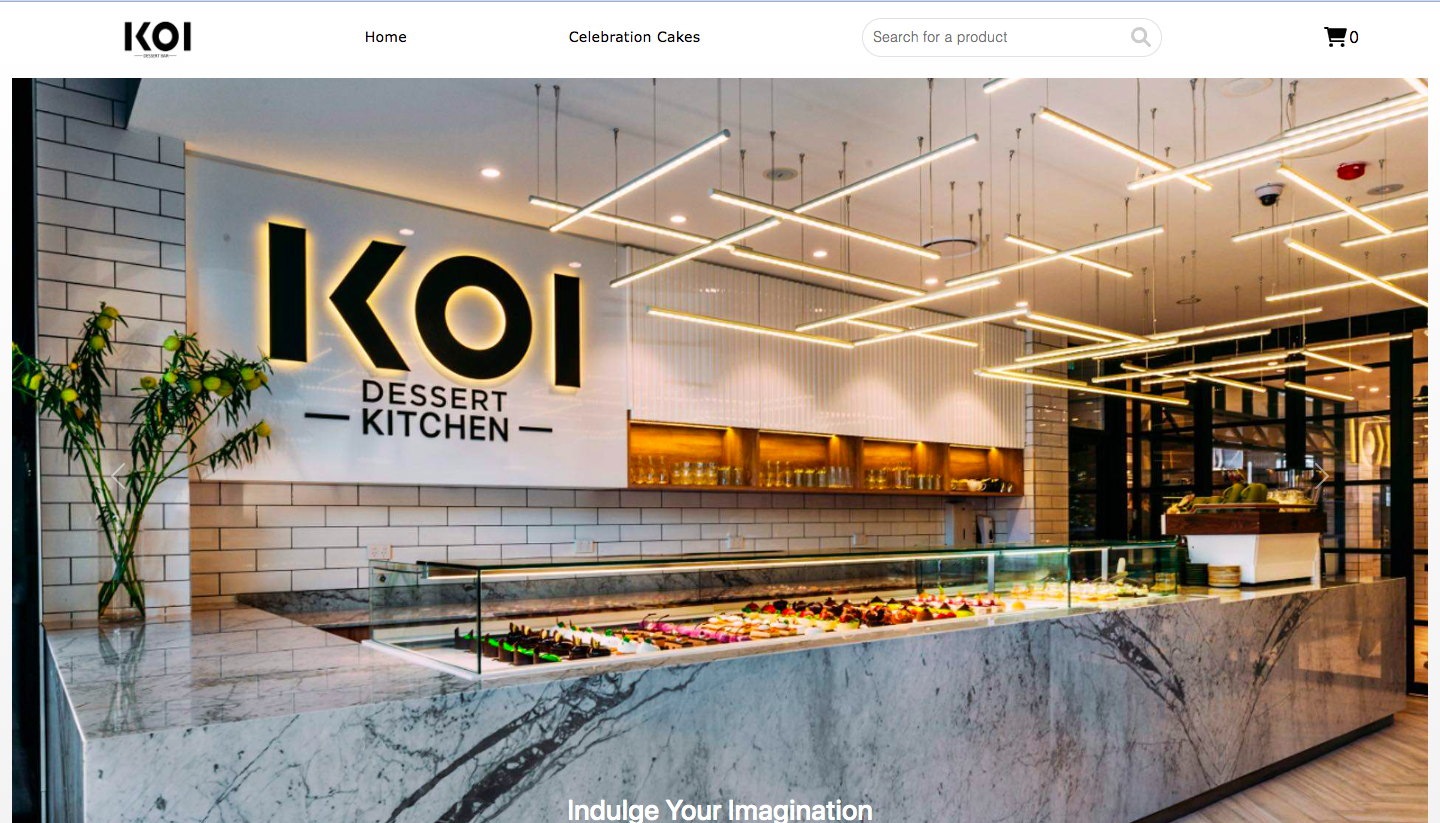
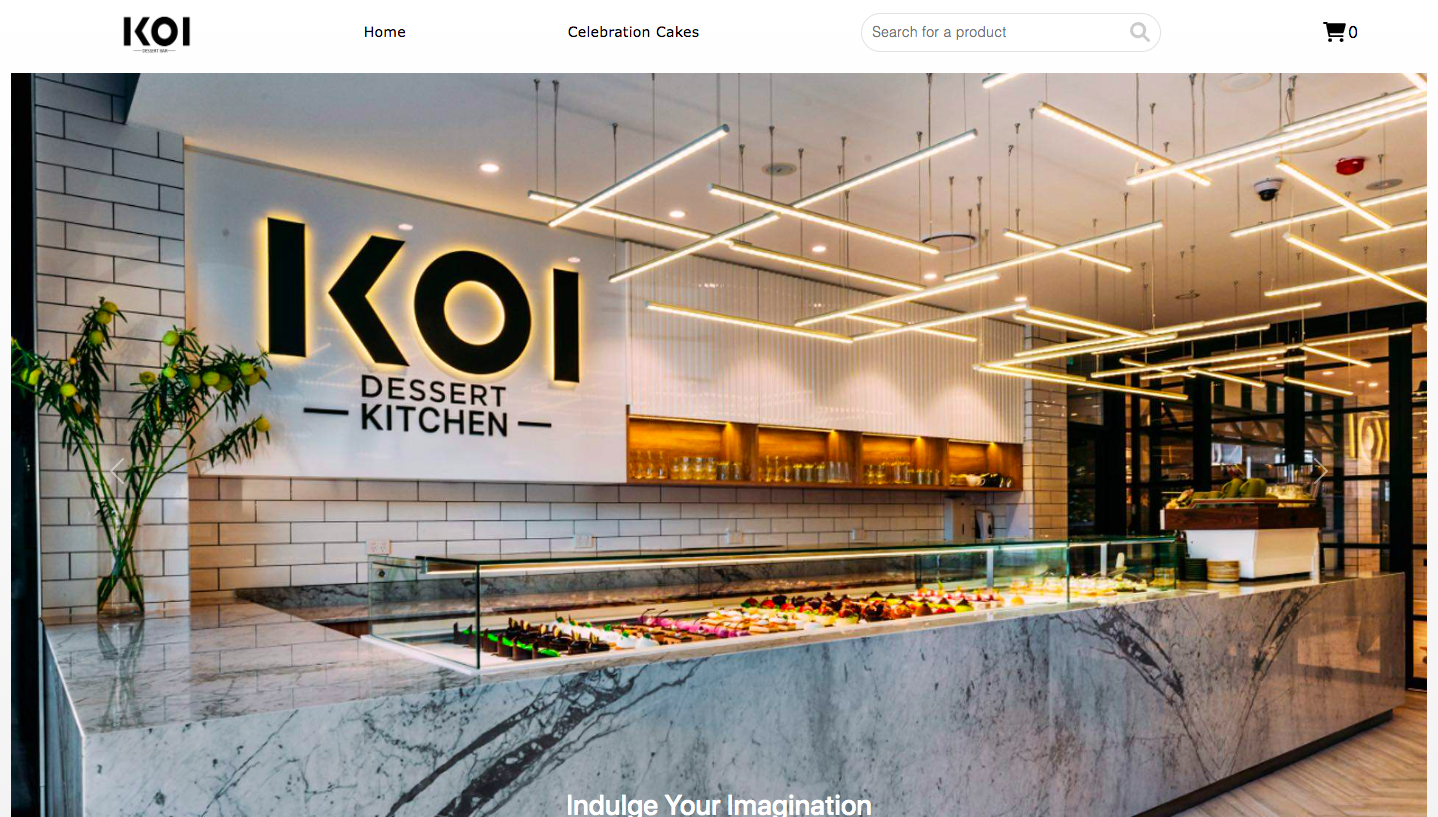
Update portfolio

diff --git a/index.html b/index.html
@@ -29,9 +29,7 @@
         <header class="header_area">
             <div class="main-menu">
                 <nav class="navbar navbar-expand-lg navbar-light">
-                    <a class="navbar-brand" href="#"
-                        ><img src="./img/logo.png" alt="logo"
-                    /></a>
+                    <a class="navbar-brand" href="#">AD</a>
                     <button
                         class="navbar-toggler"
                         type="button"
@@ -83,41 +81,38 @@
                 <div class="container">
                     <div class="row">
                         <div
-                            class="col-lg-6 col-md-12 site-title text-uppercase"
+                            class="col-lg-6 col-md-6 col-sm-12 site-title text-uppercase"
                         >
                             <h3>Hi</h3>
                             <h1>I'm Amelia</h1>
                             <h4>Junior Software Developer</h4>
-                            <div>
-                                <div class="d-flex flex-row flex-wrap">
-                                    <a
-                                        type="button"
-                                        class="btn btn-primary"
-                                        href="#about"
-                                    >
-                                        about me
-                                    </a>
-                                </div>
-                            </div>
+                            <a
+                                type="button"
+                                class="btn btn-primary"
+                                href="#about"
+                            >
+                                about me
+                            </a>
                         </div>
-                        <div class="col-lg-6 col-md-12 banner-image">
-                            <img
-                                src="./img/female_dev.svg"
-                                alt="female-dev"
-                                class="img-fluid"
-                            />
+                        <div class="col">
+                            <div class="about-image">
+                                <img
+                                    src="./img/profile.png"
+                                    alt="female-dev"
+                                    class="img-fluid"
+                                />
+                            </div>
                         </div>
                     </div>
                 </div>
             </section>
             <!--  ======================= End Banner Area =======================  -->
-            <hr />
             <!--  ========================= About Area ==========================  -->
 
             <section class="about-section" id="about">
                 <div class="container">
                     <div class="row">
-                        <div class="col">
+                        <div class="col-lg-6 col-md-6 col-sm-12">
                             <h2 class="text-uppercase">Introduction</h2>
                             <div>
                                 <p>
@@ -148,6 +143,7 @@
                                 Download Resume
                             </button> -->
                         </div>
+
                         <div class="col">
                             <div class="about-image">
                                 <img
@@ -194,22 +190,6 @@
                         <div class="col">
                             <div class="skill">
                                 <i
-                                    class="fa-brands fa-git-alt fa-3x skills__icon"
-                                ></i>
-                                <p>Git</p>
-                            </div>
-                        </div>
-                        <div class="col">
-                            <div class="skill">
-                                <i
-                                    class="fa-solid fa-server fa-3x skills__icon"
-                                ></i>
-                                <p>Firebase/FireStore</p>
-                            </div>
-                        </div>
-                        <div class="col">
-                            <div class="skill">
-                                <i
                                     class="fa-brands fa-react fa-3x skills__icon"
                                 ></i>
                                 <p>React</p>
@@ -248,11 +228,13 @@
             <!--  ======================= Project Area =============================  -->
 
             <section class="project-section" id="projects">
-                <div class="container">
+                <div class="container px-2">
                     <h2 class="text-uppercase">Projects</h2>
-                    <div class="row grid">
+                    <div class="row row-cols-3 gx-3 gy-3">
                         <div class="col-lg-4 col-md-6 col-sm-12">
-                            <div class="our-project">
+                            <div
+                                class="p-3 border border-info-subtle rounded our-project"
+                            >
                                 <div class="img">
                                     <a
                                         class="test-popup-link"
@@ -281,20 +263,19 @@
                                         </a>
                                     </div>
                                     <p class="text-secondary">
-                                        An e-commerce website built using React,
-                                        Firestore (Database) and Bootstrap
-                                        components. Featuring a design based on
-                                        the KOI Desert Bar webstore.
-                                        Implementation of cart system, carousel
-                                        and product modal are included.
+                                        Inspired by KOI Desert Bar, it is built
+                                        using React, Firestore (Database) and
+                                        Bootstrap components. Implementation of
+                                        cart system, carousel and product modal
+                                        are included.
                                     </p>
                                 </div>
                             </div>
                         </div>
-                        <div
-                            class="col-lg-4 col-md-6 col-sm-12 element-item popular"
-                        >
-                            <div class="our-project">
+                        <div class="col-lg-4 col-md-6 col-sm-12">
+                            <div
+                                class="p-3 border border-info-subtle rounded our-project"
+                            >
                                 <div class="img">
                                     <a
                                         class="test-popup-link"
@@ -331,10 +312,10 @@
                                 </div>
                             </div>
                         </div>
-                        <div
-                            class="col-lg-4 col-md-6 col-sm-12 element-item popular"
-                        >
-                            <div class="our-project">
+                        <div class="col-lg-4 col-md-6 col-sm-12">
+                            <div
+                                class="p-3 h-100 border border-info-subtle rounded our-project"
+                            >
                                 <div class="img">
                                     <a
                                         class="test-popup-link"
@@ -364,18 +345,15 @@
                                     </div>
                                     <p class="text-secondary">
                                         A project that converts English text
-                                        into Morse Code and vice versa. Usage of
-                                        EventListeners, DOM Interactions and
-                                        knowledge of manipulating complex data
-                                        and objects.
+                                        into Morse Code and vice versa.
                                     </p>
                                 </div>
                             </div>
                         </div>
-                        <div
-                            class="col-lg-4 col-md-6 col-sm-12 element-item popular"
-                        >
-                            <div class="our-project">
+                        <div class="col-lg-4 col-md-6 col-sm-12">
+                            <div
+                                class="p-3 border border-info-subtle rounded our-project"
+                            >
                                 <div class="img">
                                     <a
                                         class="test-popup-link"
@@ -413,10 +391,10 @@
                                 </div>
                             </div>
                         </div>
-                        <div
-                            class="col-lg-4 col-md-6 col-sm-12 element-item upcoming"
-                        >
-                            <div class="our-project">
+                        <div class="col-lg-4 col-md-6 col-sm-12">
+                            <div
+                                class="p-3 border border-info-subtle rounded our-project"
+                            >
                                 <div class="img">
                                     <a
                                         class="test-popup-link"
@@ -514,39 +492,34 @@
 
         <footer id="contact">
             <div class="container">
-                <div>
-                    <div class="social text-center">
-                        <h5 class="text-uppercase">Get In Touch</h5>
-                        <a
-                            class="footer-links"
-                            href="mailto:ameliadeng37@gmail.com"
-                            target="_blank"
-                        >
-                            <i class="fas fa-envelope fa-2x"></i>
-                        </a>
-                        <a
-                            class="footer-links"
-                            href="https://github.com/AmX3"
-                            title="Github"
-                            target="_blank"
-                        >
-                            <i class="fab fa-github fa-2x"></i>
-                        </a>
-                        <a
-                            class="footer-links"
-                            href="https://www.linkedin.com/in/amelia-deng/"
-                            title="LinkedIn"
-                            target="_blank"
-                        >
-                            <i class="fab fa-linkedin-in fa-2x"></i>
-                        </a>
-                    </div>
-                    <div class="copyrights text-center">
-                        <p class="para">
-                            @<span id="currentYear">. </span> All rights
-                            reserved
-                        </p>
-                    </div>
+                <div class="social text-center">
+                    <h5 class="text-uppercase">Get In Touch</h5>
+                    <a
+                        class="footer-links"
+                        href="mailto:ameliadeng37@gmail.com"
+                        target="_blank"
+                    >
+                        <i class="fas fa-envelope fa-2x"></i>
+                    </a>
+                    <a
+                        class="footer-links"
+                        href="https://github.com/AmX3"
+                        title="Github"
+                        target="_blank"
+                    >
+                        <i class="fab fa-github fa-2x"></i>
+                    </a>
+                    <a
+                        class="footer-links"
+                        href="https://www.linkedin.com/in/amelia-deng/"
+                        title="LinkedIn"
+                        target="_blank"
+                    >
+                        <i class="fab fa-linkedin-in fa-2x"></i>
+                    </a>
+                    <p class="para">
+                        @<span id="currentYear"> | </span> All rights reserved
+                    </p>
                 </div>
             </div>
         </footer>

diff --git a/style.css b/style.css
@@ -36,21 +36,31 @@ p {
 }
 
 section {
-    margin: 8rem 7rem;
+    margin: 8rem 10rem;
     height: 100%;
 }
 
 /* NAVBAR */
+
 .header_area {
-    line-height: 48px;
+    line-height: 36px;
 }
 
-.header_area .main-menu .navbar .navbar-brand {
-    padding: 0 2rem 0 3rem;
+.navbar {
+    padding: 0 10rem;
+    font-family: "Open Sans", sans-serif;
+}
+
+.navbar-brand {
+    color: var(--primary-color);
+    font-weight: 600;
+}
+
+.navbar-brand:hover {
+    color: var(--primary-color);
 }
 
 .header_area .main-menu .nav-item .nav-link {
-    font-family: "Open Sans", sans-serif;
     font-size: 14px;
     font-weight: 400;
     text-transform: uppercase;
@@ -99,14 +109,17 @@ section {
 .site-main .banner-section .site-title h1 {
     font-size: 5rem;
 }
-
-.site-main .banner-section .banner-image > img {
-    width: 100%;
-    height: 100%;
+.site-title {
+    padding: 3rem 0;
 }
 
+/* .site-main .banner-section .banner-image > img {
+    width: 100%;
+    height: 100%;
+} */
+
 .btn {
-    margin-top: 35px;
+    margin-top: 0.5rem;
 }
 
 /* End BANNER */
@@ -114,7 +127,7 @@ section {
 /* INTRODUCTION */
 
 .site-main .about-section .about-image > img {
-    padding: 1rem 0;
+    margin: 1rem 0;
 }
 
 /* End INTRODUCTION */
@@ -174,9 +187,9 @@ section {
 
 /* Project Area */
 
-.site-main .project-section .grid .our-project .img a:hover img {
+.img a:hover img {
     filter: brightness(1.1) drop-shadow(1px 8px 30px #b1afaf);
-    transition: all 0.25s;
+    transition: ease-in-out 0.35s;
 }
 
 .github-link {
@@ -194,7 +207,8 @@ section {
 /* Footer Area */
 
 footer {
-    background: url(../img/footer-bg.png) no-repeat;
+    background-color: #f5f5f7;
+    padding: 0.35rem 0;
 }
 
 .footer-links {
@@ -202,13 +216,13 @@ footer {
 }
 
 footer .social a > i {
-    margin: 0 0.5rem;
+    margin: 0 0.35rem;
     padding: 2rem;
     color: var(--border-color);
-    background-color: #f1f1f1;
+    background-color: #fbfbfd;
     color: #0c111a;
     opacity: 0.8;
-    border-radius: 30%;
+    border-radius: 35%;
     box-shadow: 0px 5px 15px -5px #00000070;
     transition: all 0.25s;
     padding: 9px;
@@ -235,4 +249,5 @@ footer .social a:hover > i {
     --gradient-color: linear-gradient(90deg, #4458dc 0%, #854fee 100%);
     --shadow-color: 0px 10px 30px rgba(118, 85, 225, 0.3);
     --box-shadow: 0px 10px 30px rgba(57, 56, 61, 0.205);
+    --darkbackground: #1341b0;
 }
